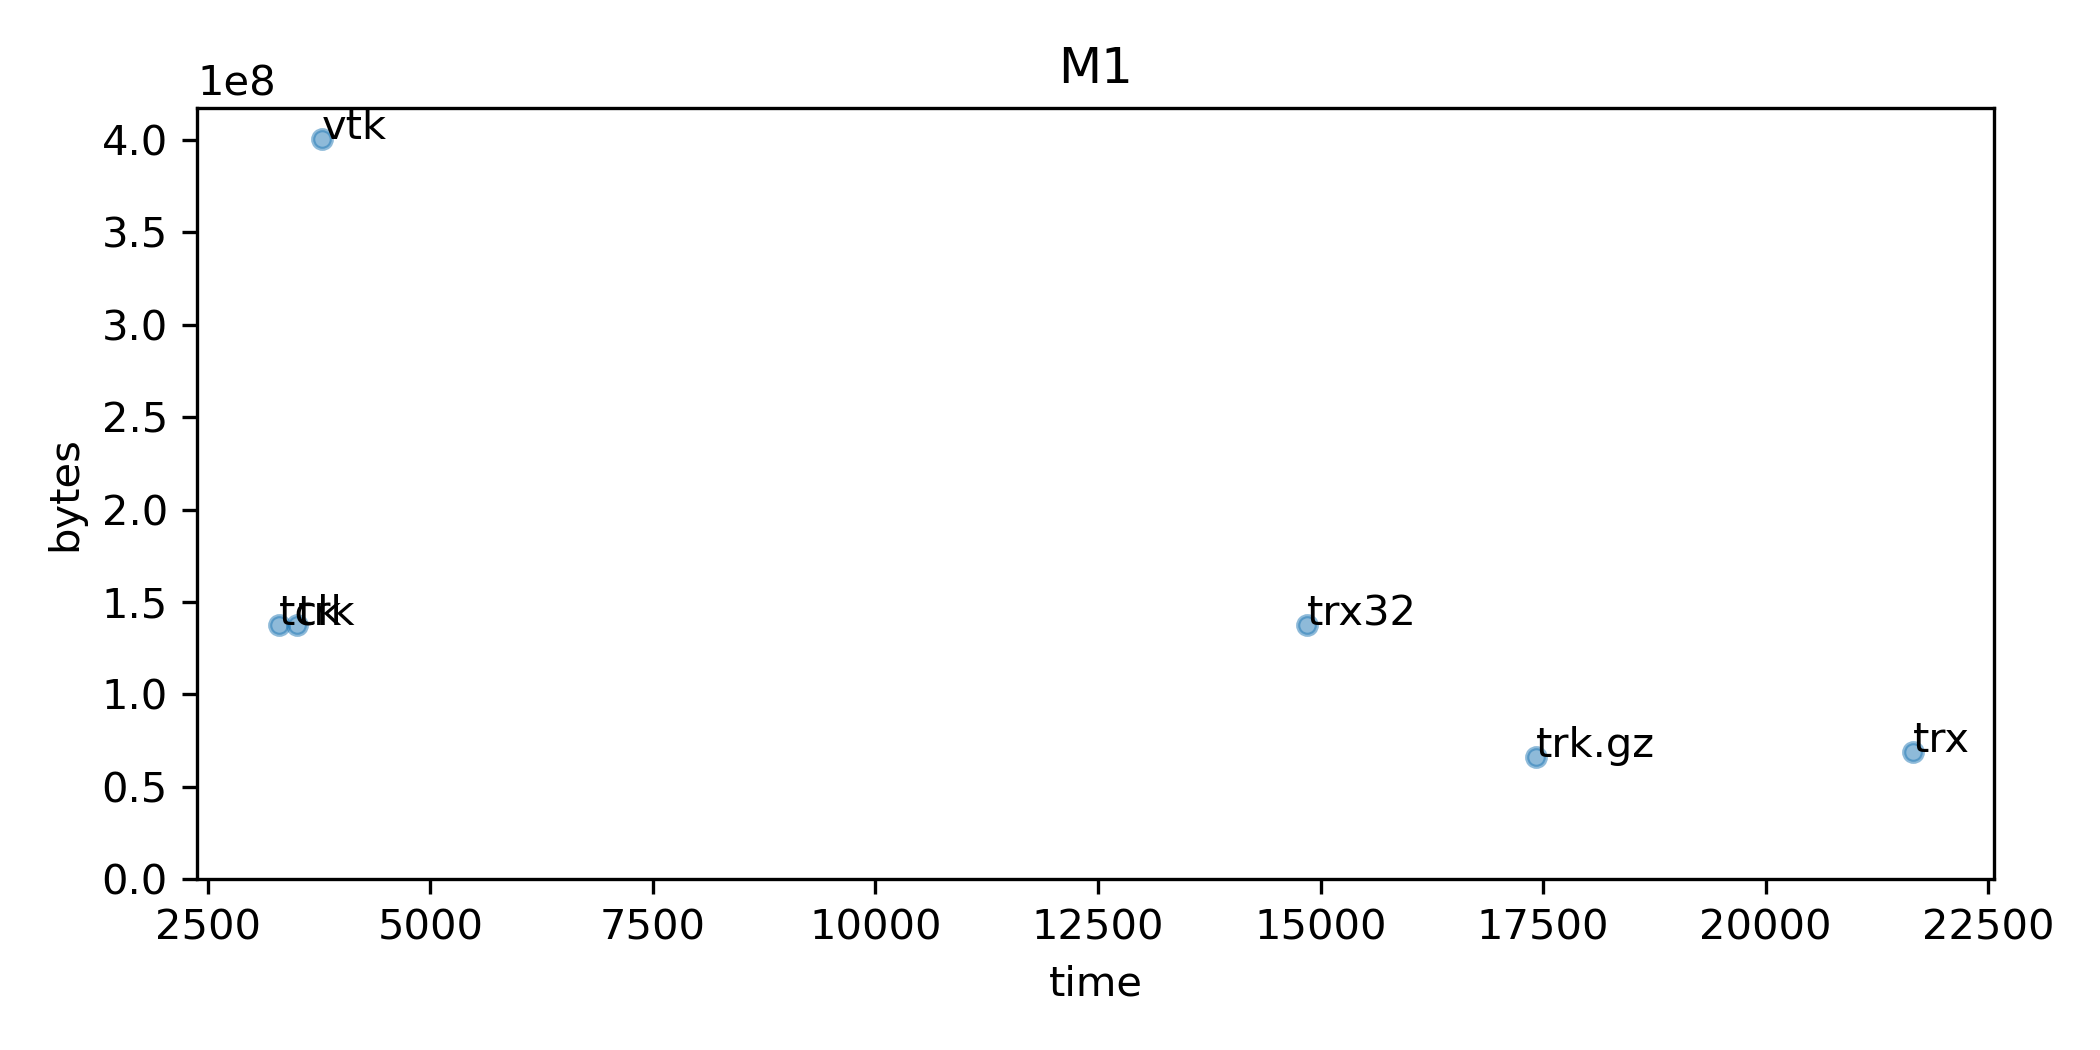
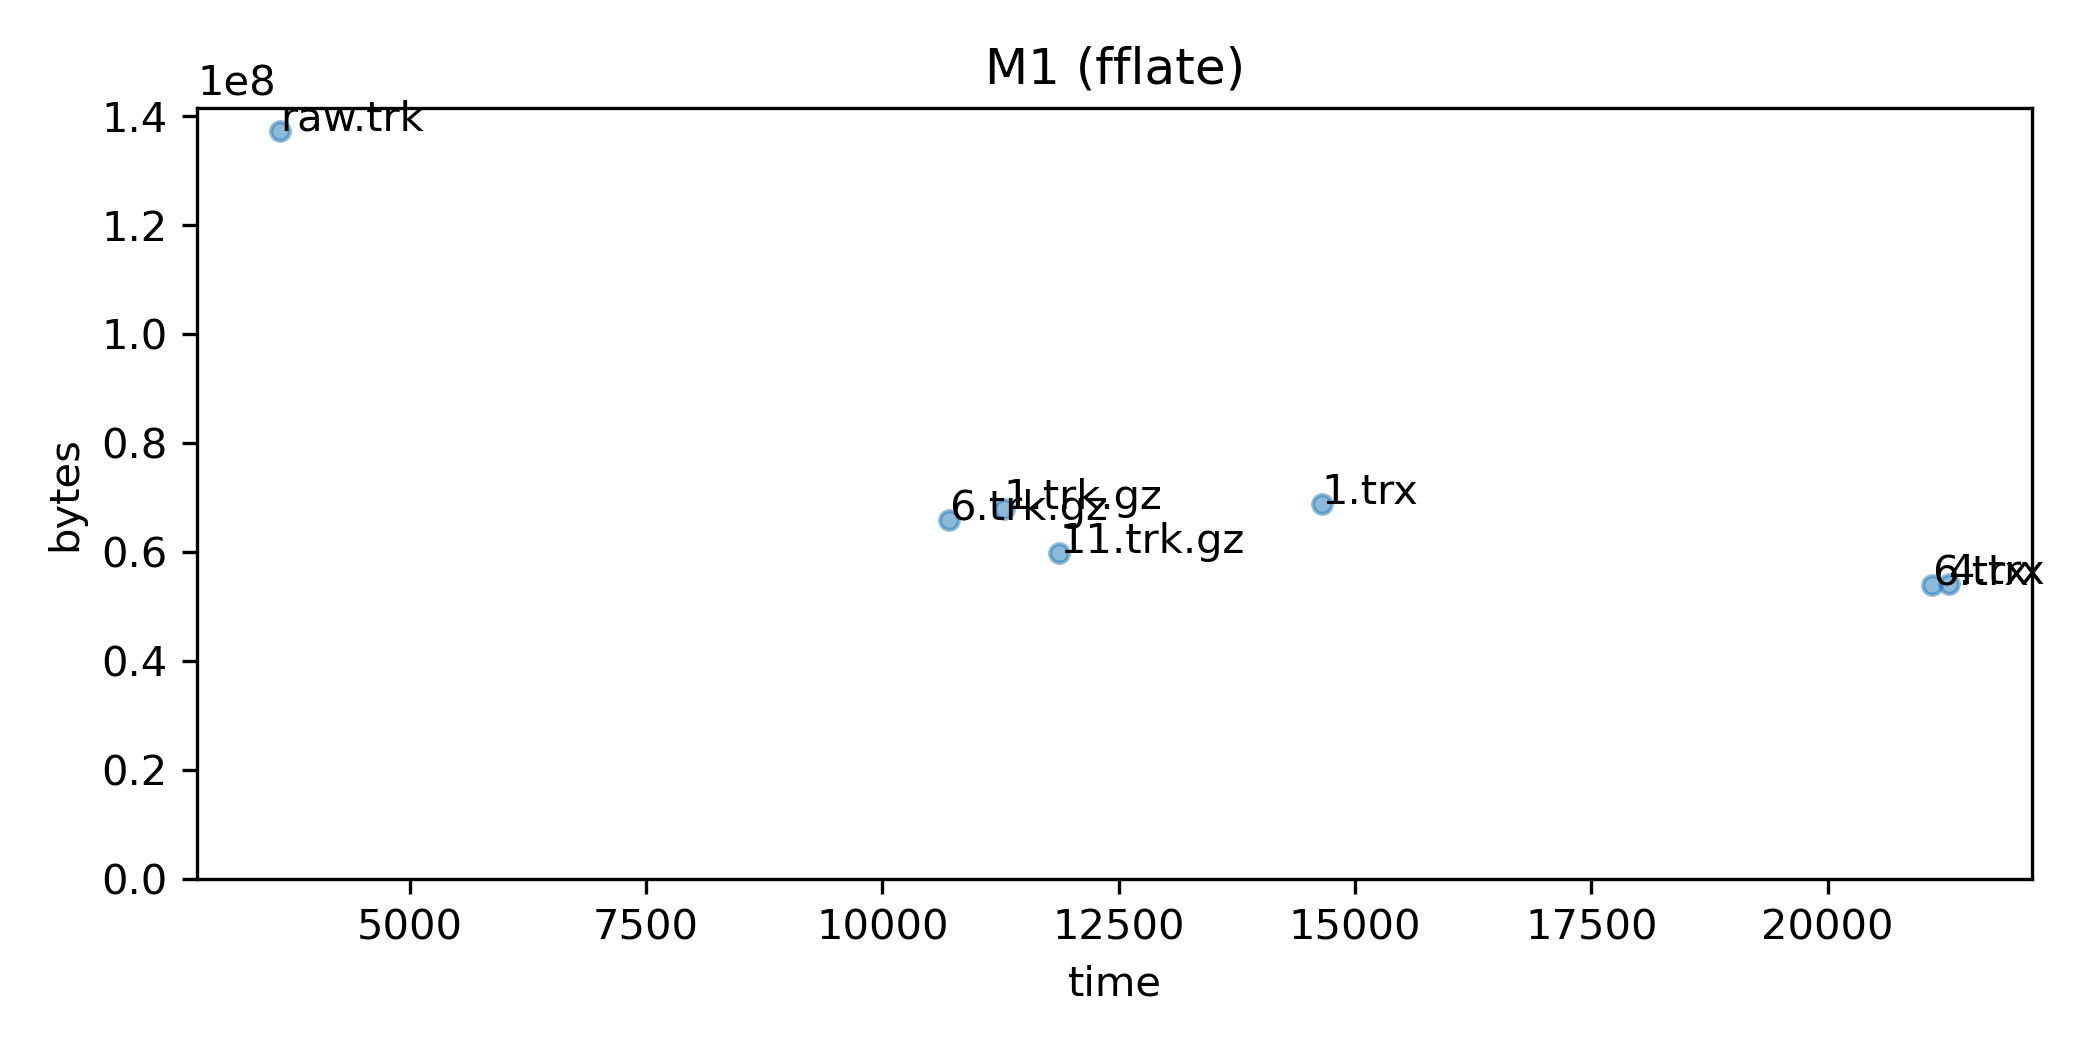
Use fflate instead of pako for faster performance of both zip and gz compression.

diff --git a/javascript/graphM1.py b/javascript/graphM1.py
@@ -12,14 +12,14 @@ plt.rcParams["figure.autolayout"] = True
 # Create a dataframe
 df = pd.DataFrame(
    dict(
-      time=[3298, 3507, 17416, 21652, 14849, 3781],
-      bytes=[137615686,137369684,65905329,68870016,137369222,400545731],
-      points=['tck', 'trk', 'trk.gz', 'trx', 'trx32', 'vtk']
+      time=[3632, 11284, 10702, 11868, 14648, 21283, 21106],
+      bytes=[137369684, 67980943,65905329,59829856,68870124,54183032,53941157],
+      points=['raw.trk', '1.trk.gz', '6.trk.gz', '11.trk.gz', '1.trx', '4.trx', '6.trx']
    )
 )
 
 # Scatter plot
-ax = df.plot.scatter(title='M1', x='time', y='bytes', alpha=0.5)
+ax = df.plot.scatter(title='M1 (fflate)', x='time', y='bytes', alpha=0.5)
 ax.set_ylim(ymin=0)
 # Annotate each data point
 for i, txt in enumerate(df.points):

diff --git a/javascript/README.md b/javascript/README.md
@@ -43,14 +43,13 @@ There are several important considerations regarding supporting the TRX format w
  - The TRX format allows arrays to use the float16 datatype, which is not native to JavaScript. This code converts these to float32.
  - Be aware that the specification stores NB_STREAMLINES values in the offsets array, with each value pointing to the start of that streamline One must use the length of the positions array or the header to infer the end of the final streamline. This code will populate return an offset array with NB_STREAMLINES+1 values to solve the [fencepost problem](https://icarus.cs.weber.edu/~dab/cs1410/textbook/3.Control/fencepost.html) for the final streamline. This simplifies and accelerates display code, but one must be aware of this modification.
  - The TRX specification requires little-endian order. The current code only supports little endian systems. This should support all modern Android, iOS, macOS, Linux and Windows devices.
+ - This tool uses [fflate](https://github.com/101arrowz/fflate) to decompress GZip and Zip files. The file `trx_benchPako.mjs` demonstrates using pako and jszip for these tasks. However, they are about 50% slower.
 
 ## Benchmark
 
 The included JavaScript `trx_bench` provides a method to evaluate performance. This benchmark is likely specific to JavaScript and so caution should be excercised in evaluating relative performance. The script will report the time to load a TRK, TCK, VTK or TRX file 10 times (it loads the tracts 11 times, and ignores the first run).
 
-The graph below shows the time load the [inferior fronto-occipital fasciculus (IFOF) ](https://brain.labsolver.org/hcp_trk_atlas.html) with 30856 streamlines and 11437105 vertices. The files were converted to each format using the default settings of `tff_convert_tractogram.py`. The benchmark was run on a passively-cooled 15w M1-based MacBook Air. The uncompressed TCK and TRK files provide very similar results, and so overlap on the figure. 
-
- - The VTK format used 64-bit precision for both offsets and vertices, leading to a large file size.
- - The TRX format requires 64-bit offsets and the implementation uses 16-bit floats for the vertex positions. Since neither is native to JavaScript, the `trx32` file was also evaluated, which uses the native 32-bit types for both properties (note that the use of 32-bit offsets is not allowed by the specification).
+The graph below shows the time load the [inferior fronto-occipital fasciculus (IFOF) ](https://brain.labsolver.org/hcp_trk_atlas.html) with 30856 streamlines and 11437105 vertices. The . The benchmark was run on a passively-cooled 15w M1-based MacBook Air. Reuslts show the uncompressed TRK performance (raw.trk) as well as fastest, default and slowest pigz compression (1.trk.gz, 6.trk.gz, 11.trk.gz). For TRX, fastest, default and maximum zip compression was used (1.trx, 4.trx, 6.trx). Note that compression levels influences the compression time and file size, but tends to have minimal impact on decompression speed. Also note that the TRK file used 32-bit floats, while TRX used lower precision 16-bit floats.
+ - The TRX format requires 64-bit offsets and the implementation uses 16-bit floats for the vertex positions. Since neither is native this has performance implications.
 
 ![M1 Performance](M1.png)
